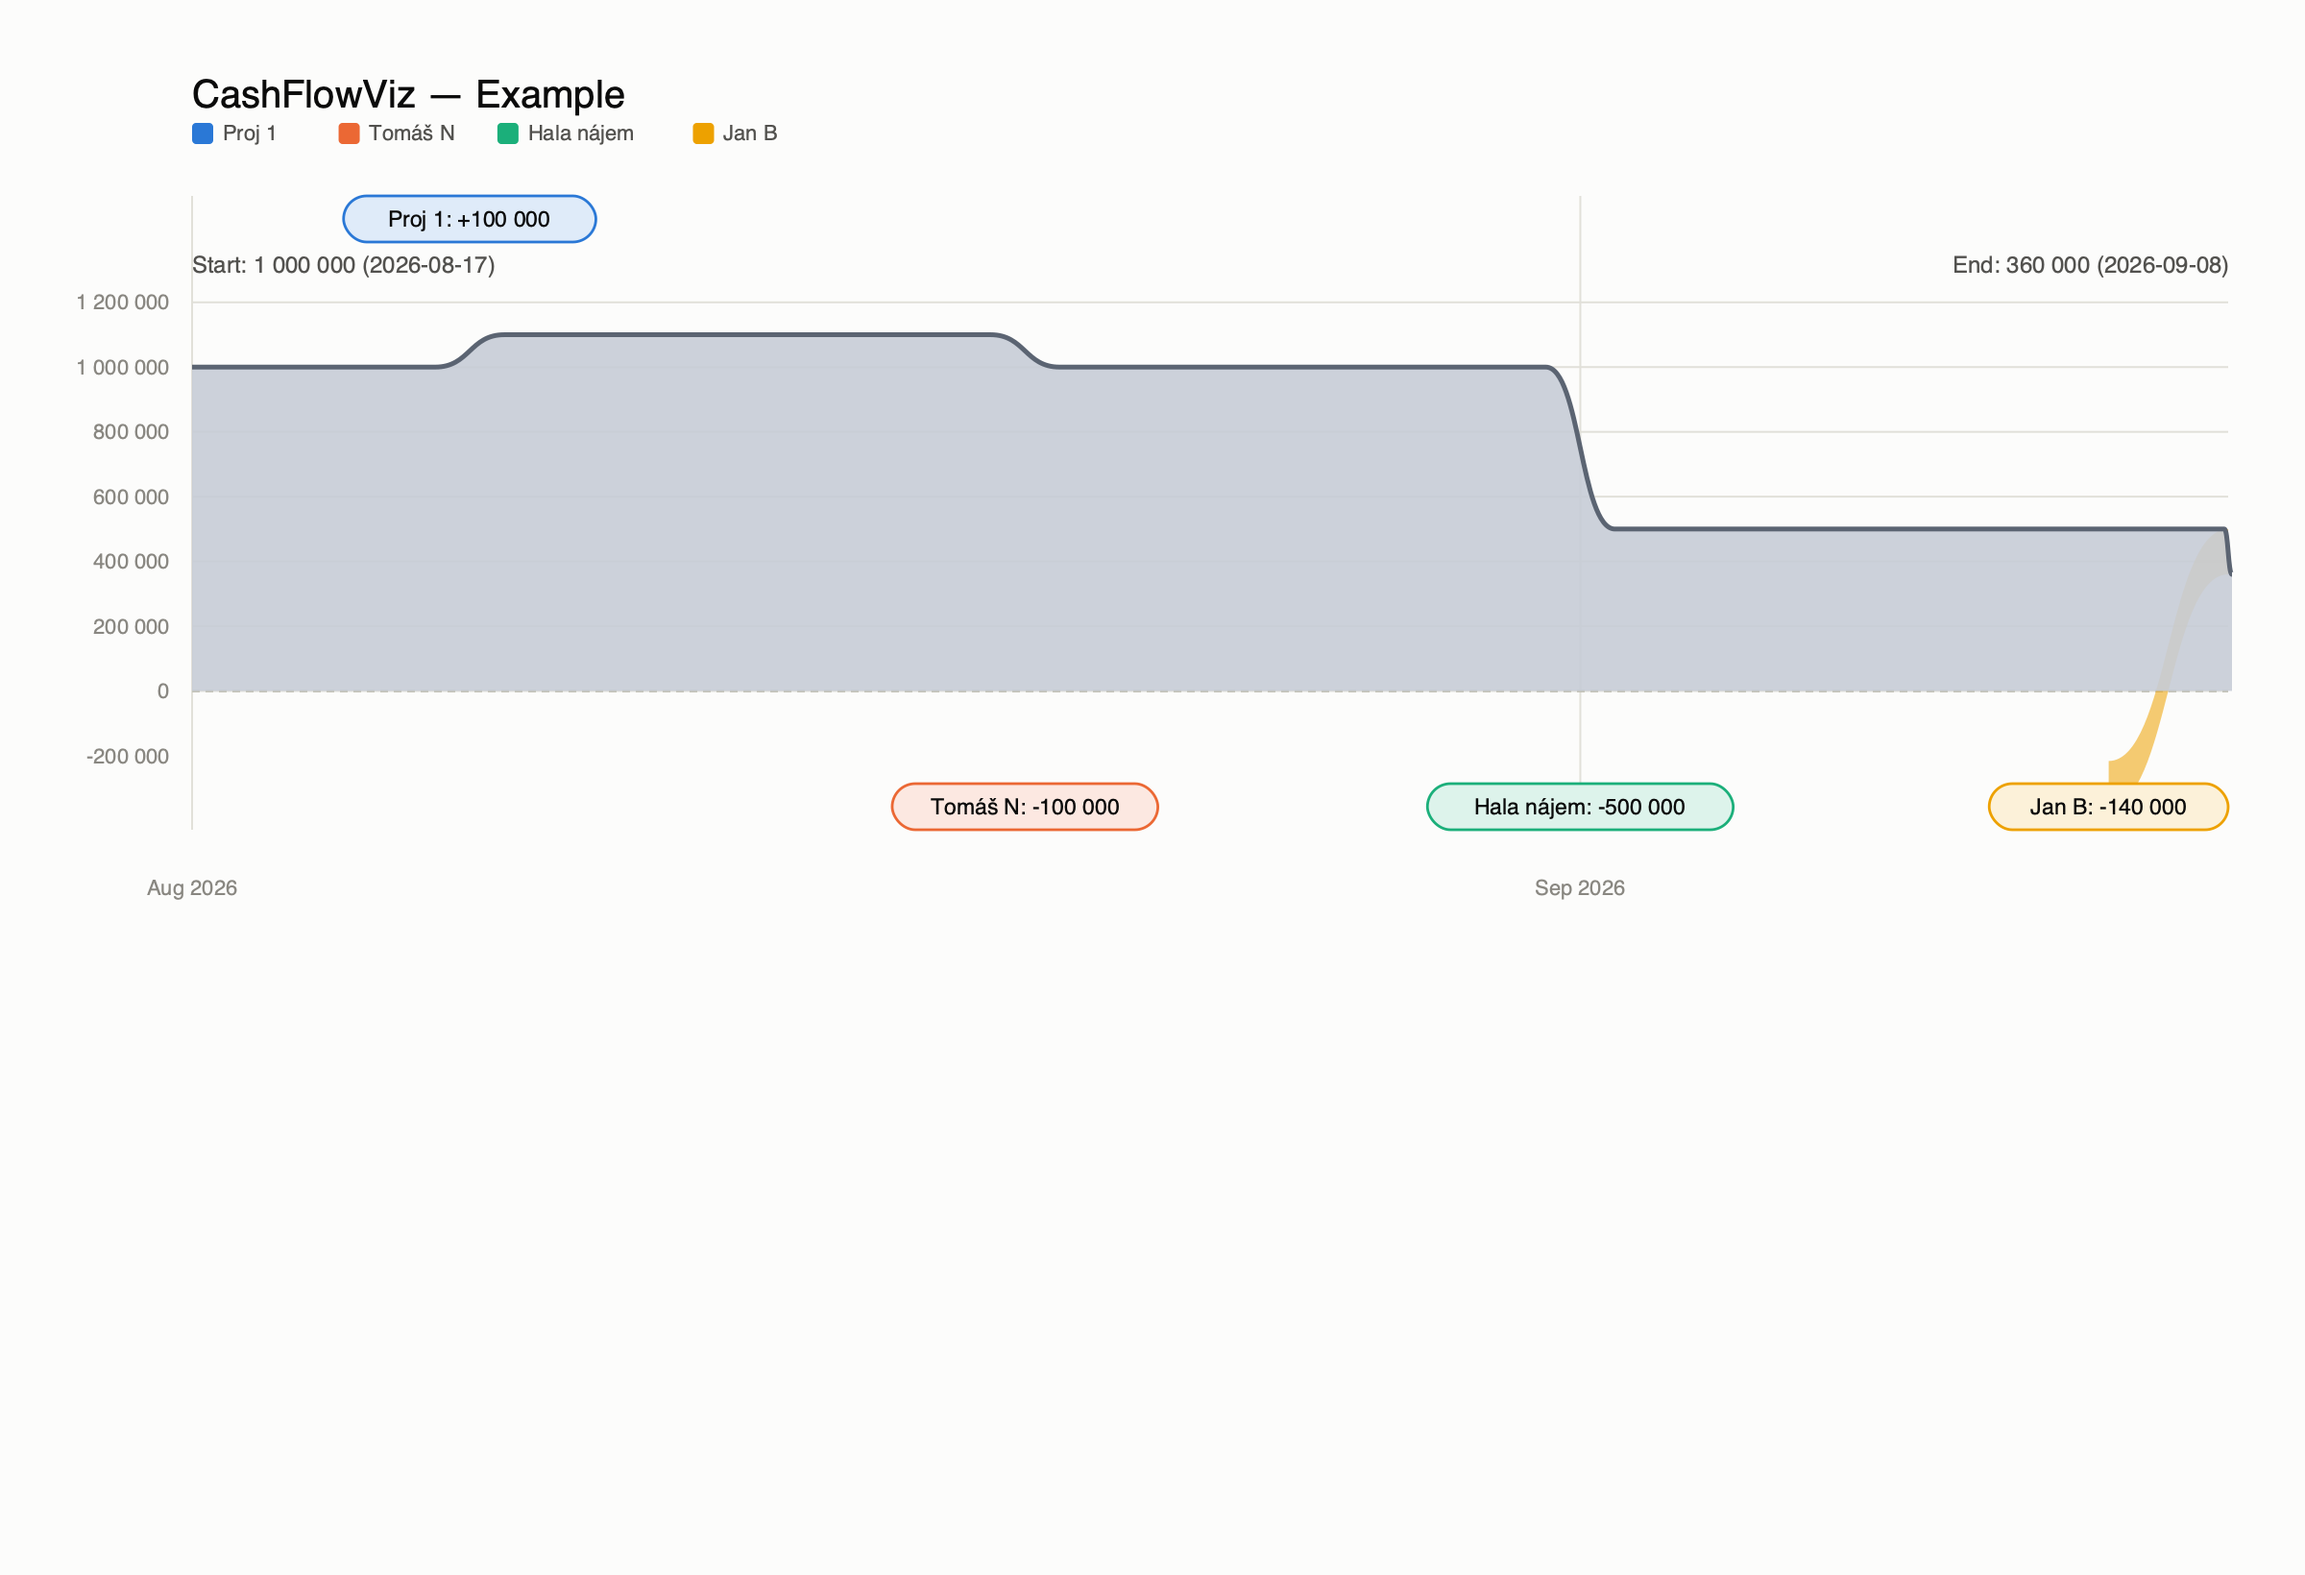
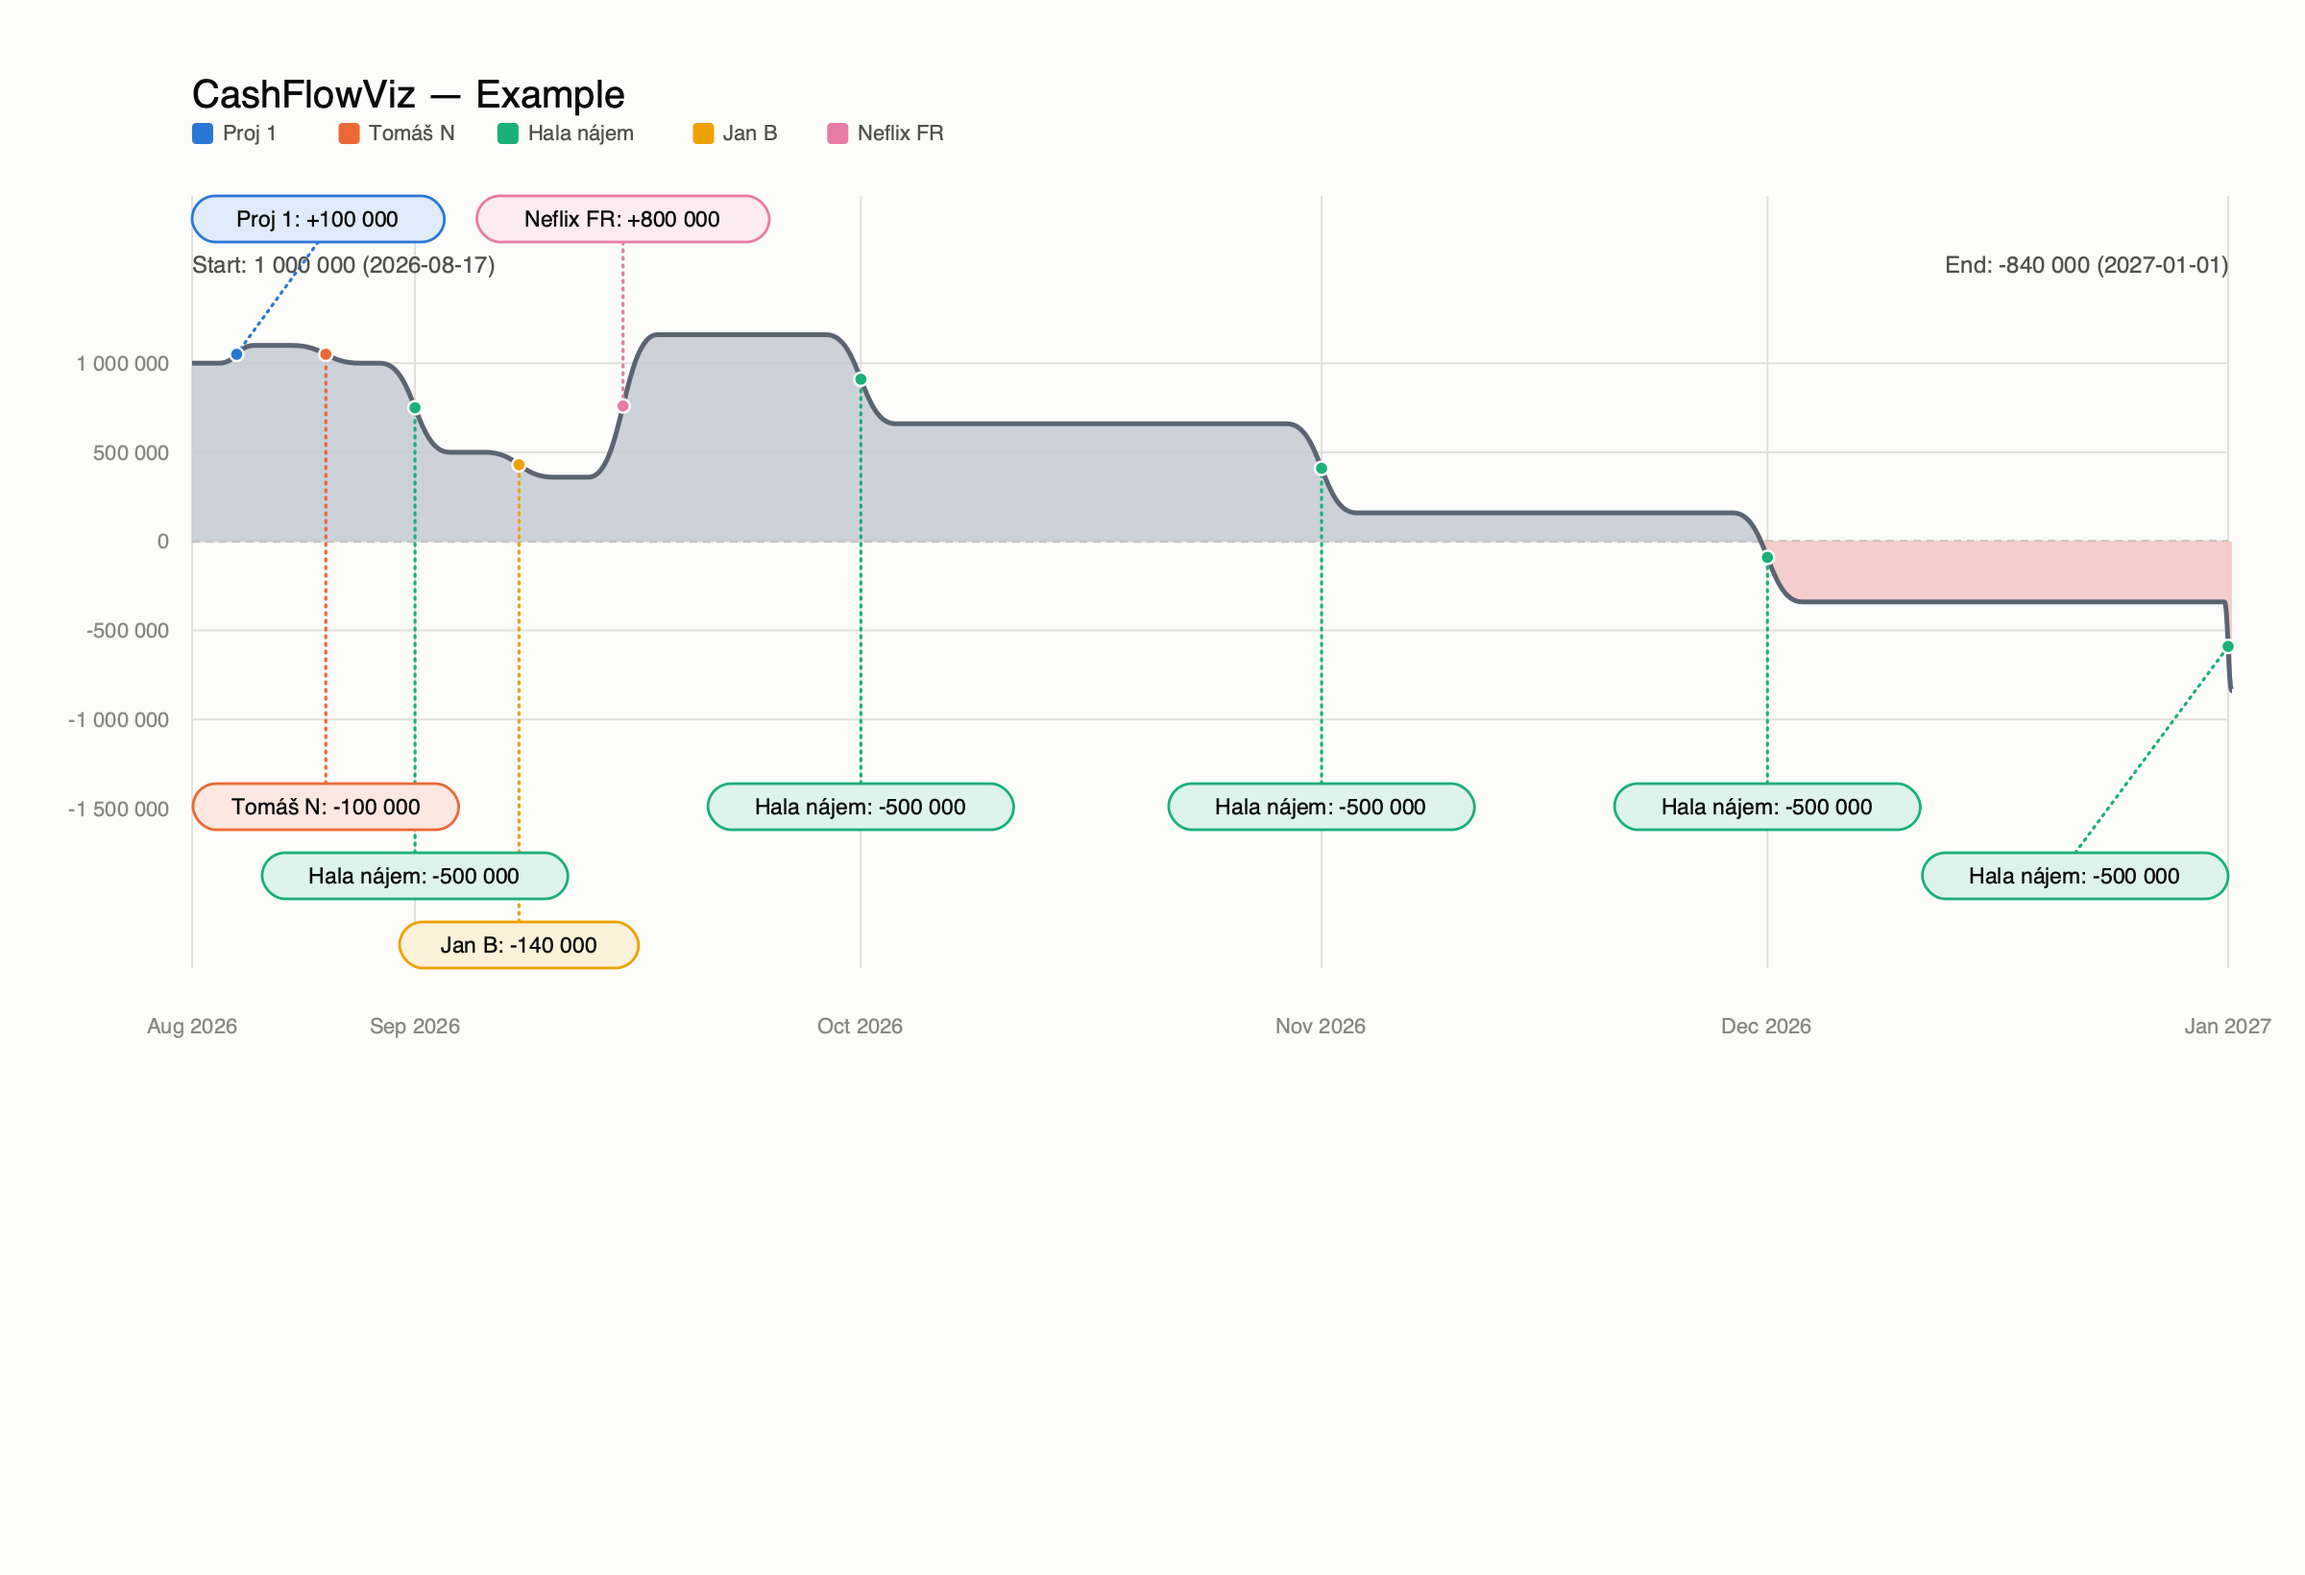
Replace ribbon connectors with dotted leader lines to the trunk
Each transaction now connects to the graph with a thin dashed line (IN
pills draw straight down, OUT pills straight up) ending in a small dot at
the exact point on the balance trunk, instead of a filled Sankey ribbon.

diff --git a/cashflowviz/render.py b/cashflowviz/render.py
@@ -1,10 +1,9 @@
-"""Render balance transitions as a Sankey-style cash flow diagram in SVG.
+"""Render balance transitions as a cash flow diagram in SVG.
 
 A central "trunk" band tracks the account balance over time (its thickness is
-the balance magnitude). Every transaction is drawn as its own colored ribbon
-that either merges into the trunk (money in, thickening it) or peels off the
-trunk (money out, thinning it) at the transaction's date, connecting to a
-labeled pill above (IN) or below (OUT) the trunk.
+the balance magnitude). Every transaction is drawn as its own colored, dotted
+connector line from a labeled pill above (IN, money in) or below (OUT, money
+out) down/up to the exact point on the trunk where that transaction lands.
 """
 
 from __future__ import annotations
@@ -43,7 +42,7 @@ TRUNK_NEGATIVE_STROKE = "#b64a48"
 
 FONT_FAMILY = 'system-ui, -apple-system, "Segoe UI", sans-serif'
 
-MIN_RIBBON_PX = 6.0
+MIN_LABEL_W = 6.0
 STATUS_MARKER_COLOR = "#5b6472"
 PILL_H = 24
 PILL_PAD_X = 10
@@ -136,16 +135,6 @@ def _cubic_bezier(p0, p1, p2, p3, t: float) -> tuple[float, float]:
     x = mt**3 * p0[0] + 3 * mt**2 * t * p1[0] + 3 * mt * t**2 * p2[0] + t**3 * p3[0]
     y = mt**3 * p0[1] + 3 * mt**2 * t * p1[1] + 3 * mt * t**2 * p2[1] + t**3 * p3[1]
     return x, y
-
-
-def _sankey_link_path(x0, y0_top, y0_bot, x1, y1_top, y1_bot) -> str:
-    xm = (x0 + x1) / 2
-    return (
-        f"M {x0:.2f},{y0_top:.2f} "
-        f"C {xm:.2f},{y0_top:.2f} {xm:.2f},{y1_top:.2f} {x1:.2f},{y1_top:.2f} "
-        f"L {x1:.2f},{y1_bot:.2f} "
-        f"C {xm:.2f},{y1_bot:.2f} {xm:.2f},{y0_bot:.2f} {x0:.2f},{y0_bot:.2f} Z"
-    )
 
 
 def _assign_rows(intervals: list[tuple[float, float]]) -> tuple[list[int], int]:
@@ -244,7 +233,7 @@ def render_svg(
         if e.is_status:
             continue
         label = f"{e.asset}: {_format_amount(e.amount, currency, signed=True)}"
-        w = max(_estimate_text_width(label) + PILL_PAD_X * 2, MIN_RIBBON_PX)
+        w = max(_estimate_text_width(label) + PILL_PAD_X * 2, MIN_LABEL_W)
         p.label_w = w
         p.pill_x = min(max(p.x, x_left + w / 2), x_right - w / 2)
         (in_items if e.amount >= 0 else out_items).append((p, p.pill_x - w / 2, p.pill_x + w / 2, w, label))
@@ -428,32 +417,6 @@ def render_svg(
         )
     )
 
-    # ribbons (drawn under the trunk so they appear to flow into/out of it)
-    for p in placements:
-        e = p.transition.entry
-        if e.is_status:
-            continue
-        thickness = max(abs(e.amount) * (trunk_h / (max_level - min_level)), MIN_RIBBON_PX)
-        row = p.row
-        if e.amount >= 0:
-            pill_bottom = trunk_top - STEM_GAP - row * (PILL_H + ROW_GAP_Y)
-            pill_top = pill_bottom - PILL_H
-            attach_top, attach_bot = p.attach_top, p.attach_bot
-            link_d = _sankey_link_path(
-                p.pill_x, pill_bottom - thickness / 2, pill_bottom + thickness / 2, p.x, attach_top, attach_bot
-            )
-        else:
-            pill_top = trunk_bottom + STEM_GAP + row * (PILL_H + ROW_GAP_Y)
-            pill_bottom = pill_top + PILL_H
-            attach_top, attach_bot = p.attach_top, p.attach_bot
-            link_d = _sankey_link_path(
-                p.x, attach_top, attach_bot, p.pill_x, pill_top - thickness / 2, pill_top + thickness / 2
-            )
-
-        ribbon = dwg.path(d=link_d, fill=p.color, opacity=0.55, stroke="none")
-        ribbon.set_desc(title=f"{e.date.isoformat()} — {e.asset}: {_format_amount(e.amount, currency, signed=True)}")
-        dwg.add(ribbon)
-
     # trunk fill (positive/negative split) + stroke
     for seg, is_positive in fill_segments:
         if len(seg) < 2:
@@ -463,6 +426,31 @@ def render_svg(
         dwg.add(dwg.polygon(points=area_pts, fill=fill, stroke="none", opacity=0.9))
 
     dwg.add(dwg.path(d=boundary_d, fill="none", stroke=TRUNK_STROKE, stroke_width=2.5, stroke_linejoin="round"))
+
+    # dotted connector from each pill straight to its point on the trunk,
+    # with a small dot marking exactly where the event lands on the graph
+    for p in placements:
+        e = p.transition.entry
+        if e.is_status:
+            continue
+        row = p.row
+        graph_y = (p.attach_top + p.attach_bot) / 2
+        if e.amount >= 0:
+            pill_edge_y = trunk_top - STEM_GAP - row * (PILL_H + ROW_GAP_Y)
+        else:
+            pill_edge_y = trunk_bottom + STEM_GAP + row * (PILL_H + ROW_GAP_Y)
+
+        connector = dwg.line(
+            start=(p.pill_x, pill_edge_y),
+            end=(p.x, graph_y),
+            stroke=p.color,
+            stroke_width=1.6,
+            stroke_dasharray="1,3",
+            stroke_linecap="round",
+        )
+        connector.set_desc(title=f"{e.date.isoformat()} — {e.asset}: {_format_amount(e.amount, currency, signed=True)}")
+        dwg.add(connector)
+        dwg.add(dwg.circle(center=(p.x, graph_y), r=3.5, fill=p.color, stroke=SURFACE_COLOR, stroke_width=1.2))
 
     # pills
     for p in placements:
